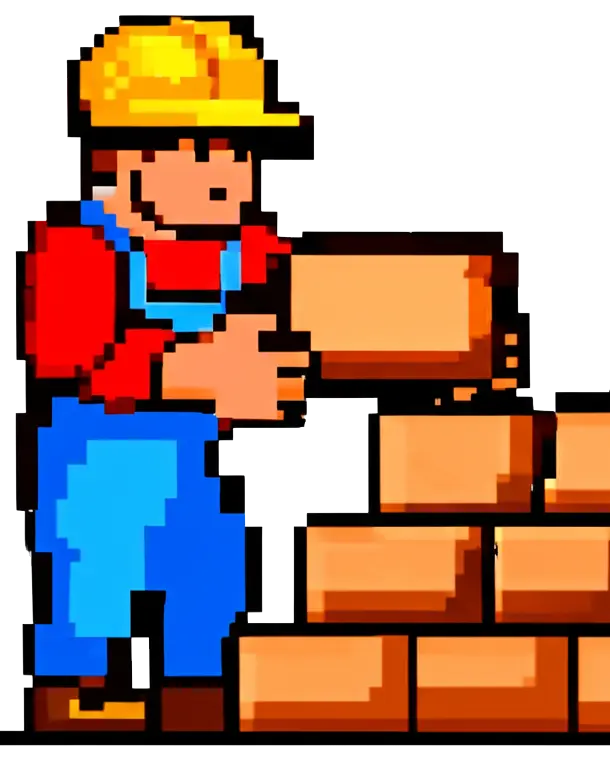
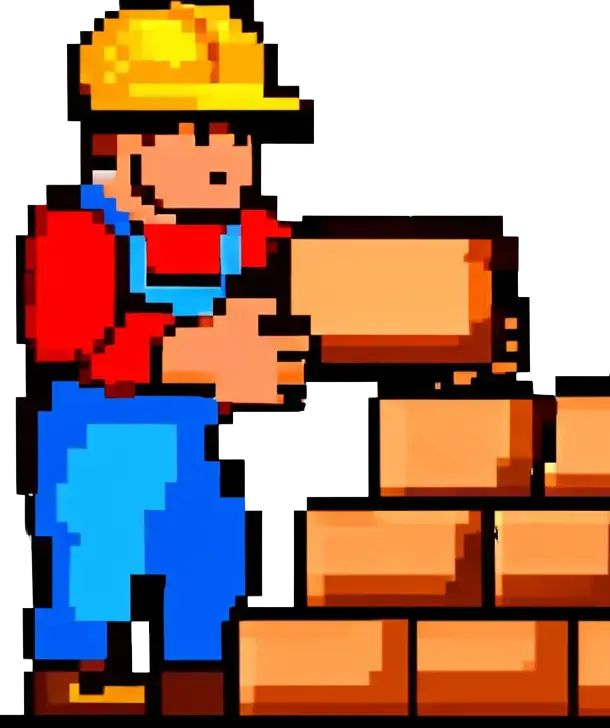
get front facing image sprites services

diff --git a/src/app/page.jsx b/src/app/page.jsx
@@ -65,27 +65,34 @@ export default function Home() {
 						</p>
 					</div>
 					{/* images lg screens */}
-					<div className="hidden lg:flex items-baseline">
+					<div className="flex items-baseline mt-3 lg:mt-0">
 						<Image
-							src="/images/webp/design1.webp"
+							src="/images/webp/design2_flip.webp"
 							alt="Design Icon"
-							width={671}
-							height={649}
-							className="w-20 h-auto"
+							width={630}
+							height={1020}
+							className="lg:hidden w-14 h-auto"
 						/>
 						<Image
-							src="/images/webp/build1.webp"
+							src="/images/webp/design2.webp"
+							alt="Design Icon"
+							width={630}
+							height={1020}
+							className="hidden lg:block lg:w-16 h-auto"
+						/>
+						<Image
+							src="/images/webp/build2.webp"
 							alt="Build Icon"
-							width={610}
-							height={763}
-							className="ml-4 w-18 h-auto"
+							width={583}
+							height={1024}
+							className="ml-4 w-14 lg:w-16 h-auto"
 						/>
 						<Image
-							src="/images/webp/optimize1.webp"
+							src="/images/webp/optimize2.webp"
 							alt="Optimize Icon"
-							width={766}
-							height={880}
-							className="ml-4 w-19 h-auto"
+							width={574}
+							height={1024}
+							className="ml-4 w-14 lg:w-16 h-auto"
 						/>
 					</div>
 				</div>
@@ -96,8 +103,8 @@ export default function Home() {
 						title="DESIGN"
 						image={{
 							src: "/images/webp/design1.webp",
-							width: 671,
-							height: 649,
+							width: 629,
+							height: 612,
 						}}
 						description="Make your website stand out with a custom design."
 						text1="I combine modern design principles with artistic style to create an effective, unique look and feel for your website."
@@ -109,7 +116,7 @@ export default function Home() {
 						image={{
 							src: "/images/webp/build1.webp",
 							width: 610,
-							height: 763,
+							height: 728,
 						}}
 						description="Bring your site to life with a fully functional build."
 						text1="I use the latest technologies and best practices to create a seamless, high-performance website."
@@ -120,8 +127,8 @@ export default function Home() {
 						title="OPTIMIZE"
 						image={{
 							src: "/images/webp/optimize1.webp",
-							width: 766,
-							height: 880,
+							width: 733,
+							height: 844,
 						}}
 						description="Enhance your website's speed, accessibility, and SEO."
 						text1="I offer a range of optimization services to improve your site's speed, SEO, and overall user experience."
